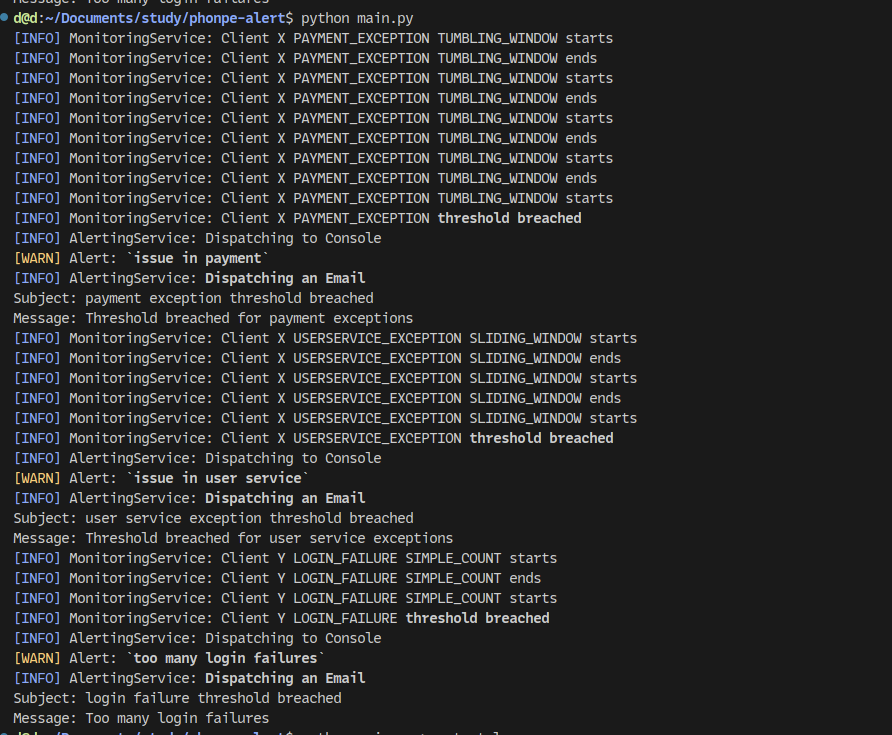
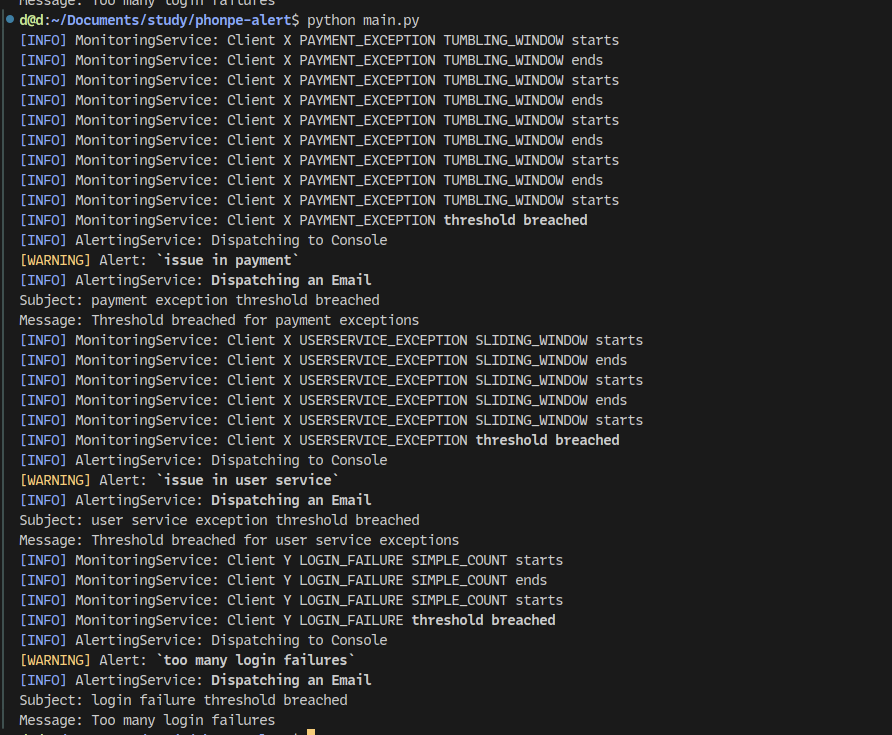
logging

Changed region(s): [[0.0, 0.0, 0.7265, 1.0], [0.3027, 0.9878, 0.3632, 1.0]]

diff --git a/constants/alert_configs.py b/constants/alert_configs.py
@@ -1,5 +1,6 @@
 from alerting_system.config import Alert, AlertConfig, DispatchStrategy
-from literals.enums import AlertType, EventType, DispatchType
+from alerting_system.logger import Logger
+from literals.enums import AlertType, EventType, DispatchType, TextFormatType
 from literals.counts import (
     LOGIN_FAILURE_COUNT,
     PAYMENT_EXCEPTION_COUNT,
@@ -19,6 +20,7 @@ from literals.messages import (
     USERSERVICE_EXCEPTION_EMAIL_SUBJECT,
 )
 
+logger = Logger()
 alert_configs = [
     Alert(
         client="X",
@@ -30,7 +32,10 @@ alert_configs = [
         ),
         dispatch_strategy_list=[
             DispatchStrategy(
-                type=DispatchType.CONSOLE, message=PAYMENT_EXCEPTION_CONSOLE_MESSAGE
+                type=DispatchType.CONSOLE,
+                message=logger.get_formatted_text(
+                    PAYMENT_EXCEPTION_CONSOLE_MESSAGE, TextFormatType.BOLD
+                ),
             ),
             DispatchStrategy(
                 type=DispatchType.EMAIL,
@@ -50,7 +55,9 @@ alert_configs = [
         dispatch_strategy_list=[
             DispatchStrategy(
                 type=DispatchType.CONSOLE,
-                message=USERSERVICE_EXCEPTION_CONSOLE_MESSAGE,
+                message=logger.get_formatted_text(
+                    USERSERVICE_EXCEPTION_CONSOLE_MESSAGE, TextFormatType.BOLD
+                ),
             ),
             DispatchStrategy(
                 type=DispatchType.EMAIL,
@@ -67,7 +74,10 @@ alert_configs = [
         ),
         dispatch_strategy_list=[
             DispatchStrategy(
-                type=DispatchType.CONSOLE, message=LOGIN_FAILURE_CONSOLE_MESSAGE
+                type=DispatchType.CONSOLE,
+                message=logger.get_formatted_text(
+                    LOGIN_FAILURE_CONSOLE_MESSAGE, TextFormatType.BOLD
+                ),
             ),
             DispatchStrategy(
                 type=DispatchType.EMAIL,

diff --git a/alerting_system/logger.py b/alerting_system/logger.py
@@ -1,0 +1,46 @@
+from literals.enums import LogLevel, TextFormatType
+
+
+class Logger:
+    def __init__(self, name: str = None):
+        self.name = name
+
+    def log(self, level: LogLevel, message: str):
+        level_str = ""
+        match level:
+            case LogLevel.INFO:
+                level_str = f"\033[94m[{level}]\033[0m"  # Blue color
+            case LogLevel.WARNING:
+                level_str = f"\033[93m[{level}]\033[0m"  # Yellow color
+            case LogLevel.ERROR:
+                level_str = f"\033[91m[{level}]\033[0m"  # Red color
+            case _:
+                level_str = "[UNKNOWN]"
+
+        print(f"{level_str} {message}")
+
+    def info(self, message: str):
+        self.log(LogLevel.INFO, message)
+
+    def warning(self, message: str):
+        self.log(LogLevel.WARNING, message)
+
+    def error(self, message: str):
+        self.log(LogLevel.ERROR, message)
+
+    @staticmethod
+    def get_formatted_text(text: str, format_type: TextFormatType) -> str:
+        """
+        Returns the formatted text based on the specified format type.
+        Supported format types: 'bold', 'italic', 'underline', etc.
+        """
+        # Apply formatting based on the format_type
+        match format_type:
+            case TextFormatType.BOLD:
+                return f"\033[1m{text}\033[0m"  # Apply bold formatting
+            case TextFormatType.ITALIC:
+                return f"\033[3m{text}\033[0m"  # Apply italic formatting
+            case TextFormatType.UNDERLINE:
+                return f"\033[4m{text}\033[0m"  # Apply underline formatting
+            case _:
+                return text  # Unsupported format type, return original text

diff --git a/alerting_system/monitoring.py b/alerting_system/monitoring.py
@@ -1,9 +1,11 @@
 from datetime import datetime, timedelta
-from literals.enums import AlertType, EventStatus
+from alerting_system.logger import Logger
+from literals.enums import AlertType, EventStatus, TextFormatType
 from alerting_system.event import Event
 from alerting_system.config import Alert
 from alerting_system.dispatcher import DispatchService
-from utils.logs_formatter import get_bold, get_info_color
+
+logger = Logger()
 
 
 # Service to monitor events and trigger alerts
@@ -14,11 +16,9 @@ class MonitoringService:
 
     # Log information messages for event processing
     def log_info_message(self, event: Event, alert: Alert, message_type: EventStatus):
-        message = (
-            f"{get_info_color('[INFO]')} MonitoringService: Client {event.client} {event.type} "
-            f"{alert.alert_config.type} {message_type}"
+        logger.info(
+            f"MonitoringService: Client {event.client} {event.type} {alert.alert_config.type} {message_type}"
         )
-        print(message)
 
     # Monitor incoming events
     def monitor_event(self, event: Event):
@@ -89,7 +89,7 @@ class MonitoringService:
 
     # Trigger the alert and dispatch it
     def trigger_alert(self, alert: Alert):
-        print(
-            f"{get_info_color('[INFO]')} MonitoringService: Client {alert.client} {alert.event_type} {get_bold('threshold breached')}"
+        logger.info(
+            f"MonitoringService: Client {alert.client} {alert.event_type} {logger.get_formatted_text('threshold breached', TextFormatType.BOLD)}"
         )
         DispatchService.dispatch(alert)

diff --git a/alerting_system/dispatcher.py b/alerting_system/dispatcher.py
@@ -1,6 +1,8 @@
 from alerting_system.config import Alert
-from literals.enums import DispatchType
-from utils.logs_formatter import get_bold, get_info_color, get_warn_color
+from alerting_system.logger import Logger
+from literals.enums import DispatchType, TextFormatType
+
+logger = Logger()
 
 
 # Service to handle dispatching alerts based on different strategies
@@ -20,14 +22,14 @@ class DispatchService:
 class ConsoleDispatch:
     @staticmethod
     def dispatch(message: str):
-        print(f"{get_info_color('[INFO]')} AlertingService: Dispatching to Console")
-        print(f"{get_warn_color('[WARN]')} Alert: `{message}`")
+        logger.info("AlertingService: Dispatching to Console")
+        logger.warning(f"Alert: {message}")
 
 
 # Class to handle email dispatching of alerts
 class EmailDispatch:
     @staticmethod
     def dispatch(subject: str, message: str):
-        print(
-            f"{get_info_color('[INFO]')} AlertingService: {get_bold('Dispatching an Email')}\nSubject: {subject}\nMessage: {message}"
+        logger.info(
+            f"AlertingService: {logger.get_formatted_text('Dispatching an Email', TextFormatType.BOLD)}\nSubject: {subject}\nMessage: {message}"
         )

diff --git a/literals/messages.py b/literals/messages.py
@@ -1,14 +1,11 @@
-from utils.logs_formatter import get_bold
-
-
-PAYMENT_EXCEPTION_CONSOLE_MESSAGE = get_bold("issue in payment")
+PAYMENT_EXCEPTION_CONSOLE_MESSAGE = "`issue in payment`"
 PAYMENT_EXCEPTION_EMAIL_SUBJECT = "payment exception threshold breached"
 PAYMENT_EXCEPTION_EMAIL_MESSAGE = "Threshold breached for payment exceptions"
 
-USERSERVICE_EXCEPTION_CONSOLE_MESSAGE = get_bold("issue in user service")
+USERSERVICE_EXCEPTION_CONSOLE_MESSAGE = "`issue in user service`"
 USERSERVICE_EXCEPTION_EMAIL_SUBJECT = "user service exception threshold breached"
 USERSERVICE_EXCEPTION_EMAIL_MESSAGE = "Threshold breached for user service exceptions"
 
-LOGIN_FAILURE_CONSOLE_MESSAGE = get_bold("too many login failures")
+LOGIN_FAILURE_CONSOLE_MESSAGE = "`too many login failures`"
 LOGIN_FAILURE_EMAIL_SUBJECT = "login failure threshold breached"
 LOGIN_FAILURE_EMAIL_MESSAGE = "Too many login failures"

diff --git a/literals/enums.py b/literals/enums.py
@@ -33,3 +33,22 @@ class EventStatus(Enum):
 
     def __str__(self):
         return self.name.lower()
+
+
+class LogLevel(Enum):
+    DEBUG = auto()
+    INFO = auto()
+    WARNING = auto()
+    ERROR = auto()
+
+    def __str__(self):
+        return self.name
+
+
+class TextFormatType(Enum):
+    BOLD = auto()
+    ITALIC = auto()
+    UNDERLINE = auto()
+
+    def __str__(self):
+        return self.name.lower()
